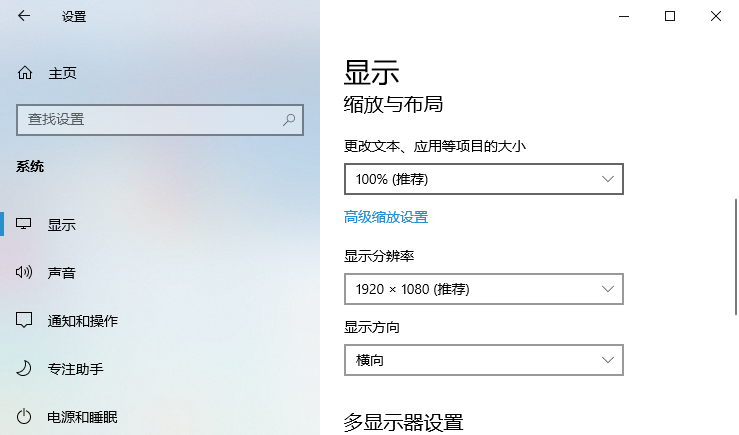
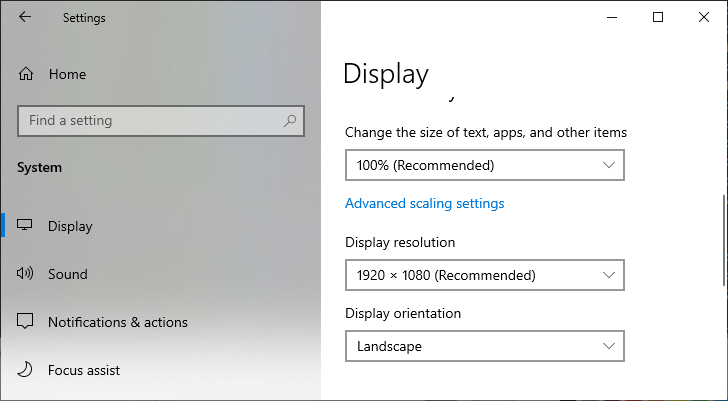
docs: fix the problem of not being able to display pictures, distinguish between Chinese and English pictures

diff --git a/README.md b/README.md
@@ -26,8 +26,8 @@
 
 ## System Display Infomation
 
-<img src="./Data/images/SystmDisplayInfo.png" alt="Display">
+<img src="./Data/images/SystemDisplayInfo.png" alt="Display">
 
-- [Scale and layout](./Src/WinSystemInfo/WinSystemDisplayInfo.h "WinSystemDisplayInfoUtil")
-- [Display resolution](./Src/WinSystemInfo/WinSystemDisplayInfo.h "WinSystemDisplayInfoUtil")
-- [Display orientation](./Src/WinSystemInfo/WinSystemDisplayInfo.h "WinSystemDisplayInfoUtil")
+- [Scale and layout](./Src/WinSystemInfo/WinSystemDisplayInfoUtil.h "WinSystemDisplayInfoUtil")
+- [Display resolution](./Src/WinSystemInfo/WinSystemDisplayInfoUtil.h "WinSystemDisplayInfoUtil")
+- [Display orientation](./Src/WinSystemInfo/WinSystemDisplayInfoUtil.h "WinSystemDisplayInfoUtil")

diff --git a/README_zh-CN.md b/README_zh-CN.md
@@ -28,9 +28,9 @@
 
 ## 系统显示信息
 
-<img src="./Data/images/SystmDisplayInfo.png" alt="显示">
+<img src="./Data/images/SystemDisplayInfo_zh-CN.png" alt="显示">
 
-- [缩放与布局](./Src/WinSystemInfo/WinSystemDisplayInfo.h "WinSystemDisplayInfoUtil")
-- [显示分辨率](./Src/WinSystemInfo/WinSystemDisplayInfo.h "WinSystemDisplayInfoUtil")
-- [显示方向](./Src/WinSystemInfo/WinSystemDisplayInfo.h "WinSystemDisplayInfoUtil")
+- [缩放与布局](./Src/WinSystemInfo/WinSystemDisplayInfoUtil.h "WinSystemDisplayInfoUtil")
+- [显示分辨率](./Src/WinSystemInfo/WinSystemDisplayInfoUtil.h "WinSystemDisplayInfoUtil")
+- [显示方向](./Src/WinSystemInfo/WinSystemDisplayInfoUtil.h "WinSystemDisplayInfoUtil")
 
